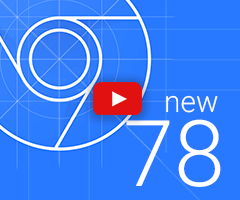
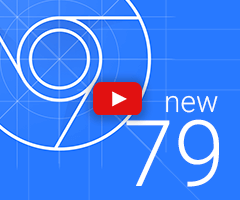
DevTools: Update What's New UI for Chrome 79
Screenshot: https://bugs.chromium.org/p/chromium/issues/detail?id=986998#c8

Bug: 986998
Commit-Queue: Kayce Basques <kayce@google.com>
Commit-Queue: Yang Guo <yangguo@chromium.org>
Auto-Submit: Kayce Basques <kayce@google.com>
Cr-Commit-Position: refs/heads/master@{#706626}

Changed region(s): [[0.7292, 0.6, 0.9333, 0.96], [0.7875, 0.6, 0.8167, 0.63]]

diff --git a/front_end/help/ReleaseNoteText.js b/front_end/help/ReleaseNoteText.js
@@ -12,6 +12,50 @@ const commandMenuShortcut = Host.isMac() ? 'Command+Shift+P' : 'Control+Shift+P'
 
 /** @type {!Array<!Help.ReleaseNote>} */
 Help.releaseNoteText = [
+
+  {
+    version: 21,
+    header: 'Highlights from the Chrome 79 update',
+    highlights: [
+      {
+        title: 'Debug why a cookie was blocked',
+        subtitle: 'Click a resource in the Network panel and go to the updated Cookies tab.',
+        link: 'https://developers.google.com/web/updates/2019/10/devtools#blockedcookies',
+      },
+      {
+        title: 'View cookie values',
+        subtitle: 'Click a row in the Cookies pane in the Application panel to see the cookie\'s value.',
+        link: 'https://developers.google.com/web/updates/2019/10/devtools#cookiepreviews',
+      },
+      {
+        title: 'Simulate prefers-color-scheme and prefers-reduced-motion preferences',
+        subtitle: 'Open the Rendering tab to force your site into dark or light mode or set motion preferences.',
+        link: 'https://developers.google.com/web/updates/2019/10/devtools#userpreferences',
+      },
+      {
+        title: 'Code coverage updates',
+        subtitle: 'More accessible colors, a filter text box, and a new integration with the Sources panel.',
+        link: 'https://developers.google.com/web/updates/2019/10/devtools#coverage',
+      },
+      {
+        title: 'Debug why a network resource was requested',
+        subtitle: 'Click a resource in the Network panel and go to the new Initiator tab.',
+        link: 'https://developers.google.com/web/updates/2019/10/devtools#initiator',
+      },
+      {
+        title: 'Console and Sources panels respect indentation preferences again',
+        subtitle: 'Set your preference in Settings > Preferences > Sources > Default Indentation.',
+        link: 'https://developers.google.com/web/updates/2019/10/devtools#indentation',
+      },
+      {
+        title: 'New shortcuts for cursor navigation',
+        subtitle: 'Press Control+P or Control+N to move your cursor to the line above or below.',
+        link: 'https://developers.google.com/web/updates/2019/10/devtools#console',
+      },
+    ],
+    link: 'https://developers.google.com/web/updates/2019/10/devtools',
+  },
+
   {
     version: 20,
     header: 'Highlights from the Chrome 78 update',
